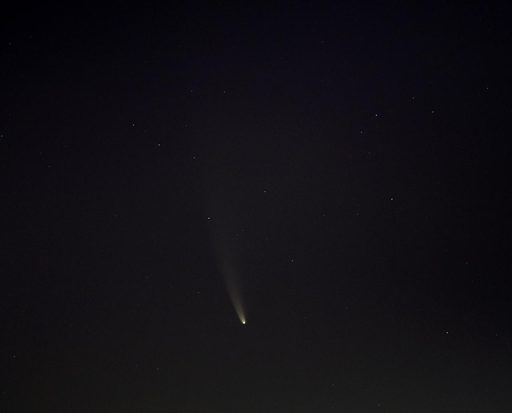
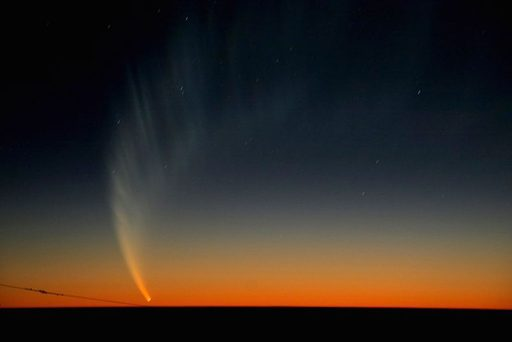
Event art: more dramatic comet and meteor shower photos
Comet McNaught's giant fan tail (ESO, CC-BY 4.0) replaces the small
NEOWISE shot; a brilliant fragmenting fireball over Kitt Peak
(NOIRLab, CC-BY 4.0) replaces the faint Perseid-over-trees shot.
Credits updated in README.

diff --git a/README.md b/README.md
@@ -74,10 +74,11 @@ If the library restructures, revisit the alias.
 
 ## Imagery
 
-Event photos in `public/img/events/` are real NASA images, public domain
-courtesy NASA/JPL: planets from MESSENGER, Mariner 10, Hubble, Juno, Cassini,
-Voyager 2, and SDO; Comet NEOWISE and Perseid meteors from NASA HQ photography;
-solar and lunar eclipse shots from NASA Armstrong and Glenn.
+Event photos in `public/img/events/` are real astronomical photos. Planets and
+eclipses are NASA public-domain images (MESSENGER, Mariner 10, Hubble, Juno,
+Cassini, Voyager 2, SDO, NASA HQ/Armstrong/Glenn, courtesy NASA/JPL). The comet
+photo is Comet McNaught courtesy ESO, and the meteor-shower photo is a fireball
+over Kitt Peak courtesy NOIRLab — both used under CC BY 4.0.
 
 ## License
 
